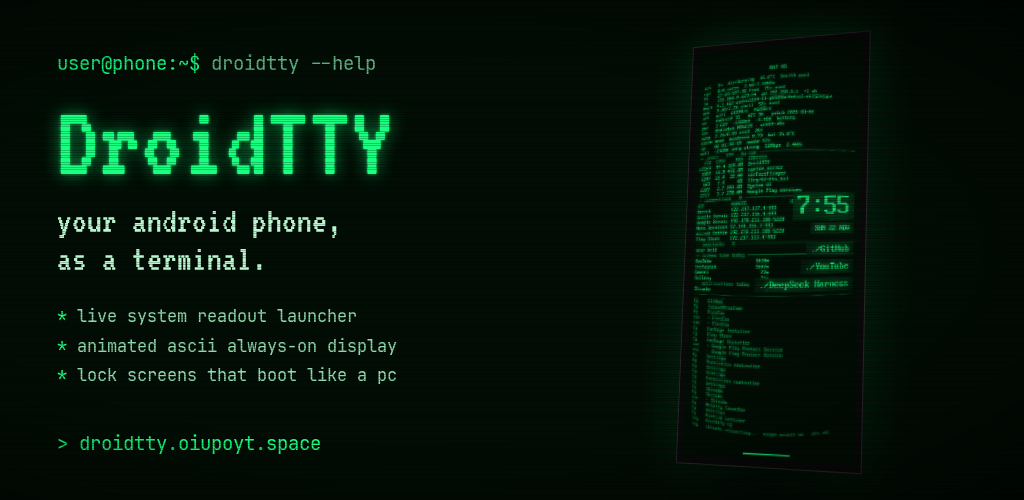
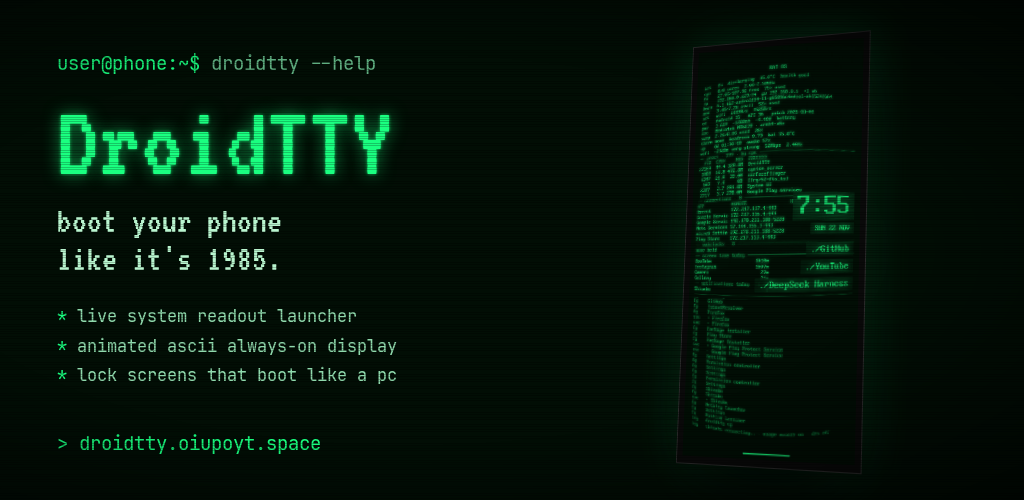
New headline: boot your phone like it's 1985

Changed region(s): [[0.0312, 0.42, 0.3438, 0.54]]

diff --git a/site/index.html b/site/index.html
@@ -3,14 +3,14 @@
 <head>
 <meta charset="utf-8">
 <meta name="viewport" content="width=device-width, initial-scale=1, viewport-fit=cover">
-<title>DroidTTY: your Android phone as a terminal</title>
+<title>DroidTTY: a retro CRT launcher for Android</title>
 <meta name="description" content="DroidTTY is an Android launcher that turns your phone into a terminal: a live system readout, animated ASCII always-on display, boot-screen lock screens and its own notification shade. Free and open source.">
 <link rel="canonical" href="https://droidtty.oiupoyt.space/">
 <!-- Link previews (Discord, WhatsApp, Instagram, Telegram, X, Slack...). The card is rendered
      from tools/og/card.html; crawlers need absolute URLs. -->
 <meta property="og:type" content="website">
 <meta property="og:site_name" content="DroidTTY">
-<meta property="og:title" content="DroidTTY: your Android phone, as a terminal">
+<meta property="og:title" content="DroidTTY: boot your phone like it's 1985">
 <meta property="og:description" content="A free, open-source Android launcher: a live system readout behind your apps, animated ASCII always-on display, lock screens that boot like a PC, and its own notification shade.">
 <meta property="og:url" content="https://droidtty.oiupoyt.space/">
 <meta property="og:image" content="https://droidtty.oiupoyt.space/assets/og.png">
@@ -18,13 +18,13 @@
 <meta property="og:image:type" content="image/png">
 <meta property="og:image:width" content="1200">
 <meta property="og:image:height" content="630">
-<meta property="og:image:alt" content="DroidTTY: your android phone, as a terminal. A phone showing the green terminal home screen with a live system readout.">
+<meta property="og:image:alt" content="DroidTTY: boot your phone like it's 1985. A phone showing the green CRT home screen with a live system readout.">
 <meta property="og:locale" content="en_US">
 <meta name="twitter:card" content="summary_large_image">
-<meta name="twitter:title" content="DroidTTY: your Android phone, as a terminal">
+<meta name="twitter:title" content="DroidTTY: boot your phone like it's 1985">
 <meta name="twitter:description" content="A free, open-source Android launcher: live system readout, animated ASCII always-on display, lock screens that boot like a PC.">
 <meta name="twitter:image" content="https://droidtty.oiupoyt.space/assets/og.png">
-<meta name="twitter:image:alt" content="DroidTTY: your android phone, as a terminal.">
+<meta name="twitter:image:alt" content="DroidTTY: boot your phone like it's 1985.">
 <meta name="theme-color" content="#1aff80">
 <link rel="icon" href="assets/icon.png">
 <link rel="preload" href="assets/fonts/vt323_regular.ttf" as="font" type="font/ttf" crossorigin>
@@ -58,7 +58,7 @@
 <section class="hero" id="top">
   <div class="hero-copy">
     <p class="prompt"><span class="ps">user@phone:~$</span> <span class="typed" data-type="droidtty --help">droidtty --help</span></p>
-    <h1>Your Android phone, as a terminal.</h1>
+    <h1>Boot your phone like it's 1985.</h1>
     <p class="lede">A launcher that puts your apps in front of a live readout of the phone: processes, connections, battery, network. Around it, an always-on display in animated ASCII, lock screens that boot like a PC, and a notification shade drawn in boxes.</p>
     <div class="cta">
       <a class="btn primary" href="#download">download the apk</a>

diff --git a/tools/og/card.html b/tools/og/card.html
@@ -48,7 +48,7 @@ html.feature .stage { right: 150px; }
   <div class="copy">
     <p class="prompt"><b>user@phone:~$</b> droidtty --help</p>
     <h1>DroidTTY</h1>
-    <p class="tag">your android phone,<br>as a terminal.</p>
+    <p class="tag">boot your phone<br>like it's 1985.</p>
     <p class="list"><span>*</span> live system readout launcher<br><span>*</span> animated ascii always-on display<br><span>*</span> lock screens that boot like a pc</p>
   </div>
   <p class="url">droidtty.oiupoyt.space</p>

diff --git a/README.md b/README.md
@@ -1,6 +1,6 @@
 # DroidTTY
 
-**An Android launcher that turns the phone into a terminal.**
+**Boot your phone like it's 1985.** A retro CRT launcher for Android.
 
 Your apps as a short list of text entries, in front of a live readout of the phone: status rows,
 process and connection tables, a scrolling event log. Around it: an always-on display with animated
